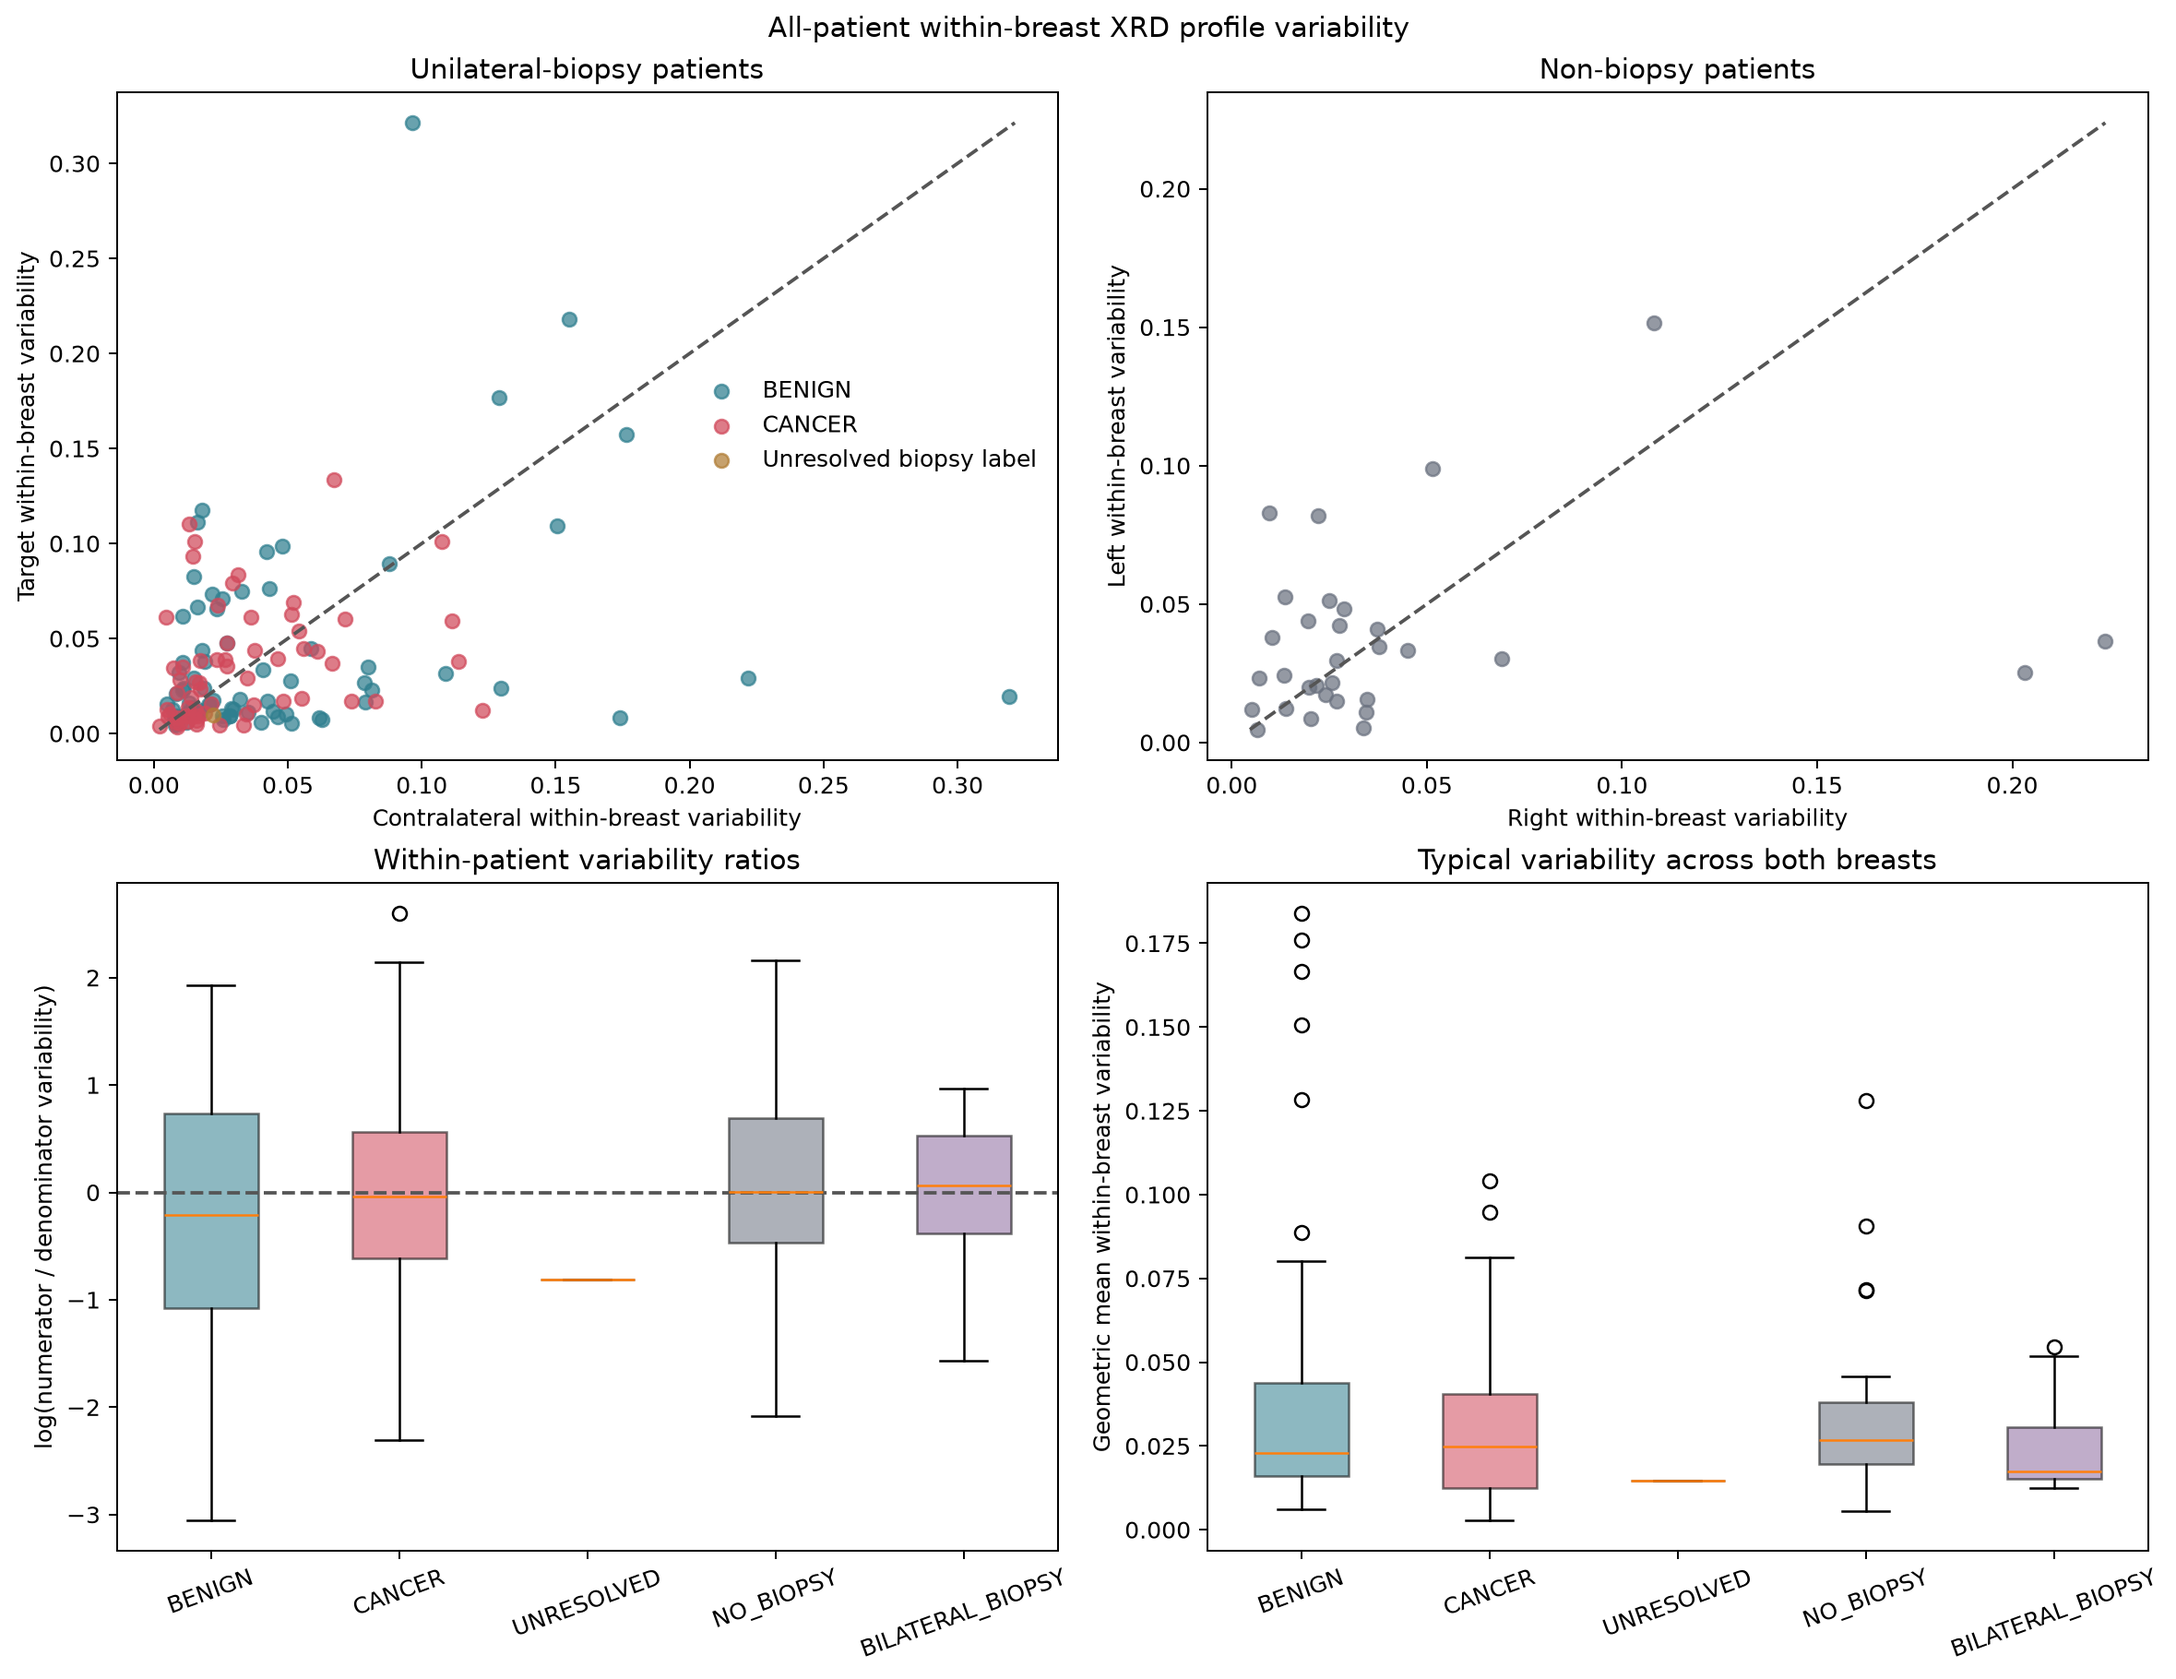
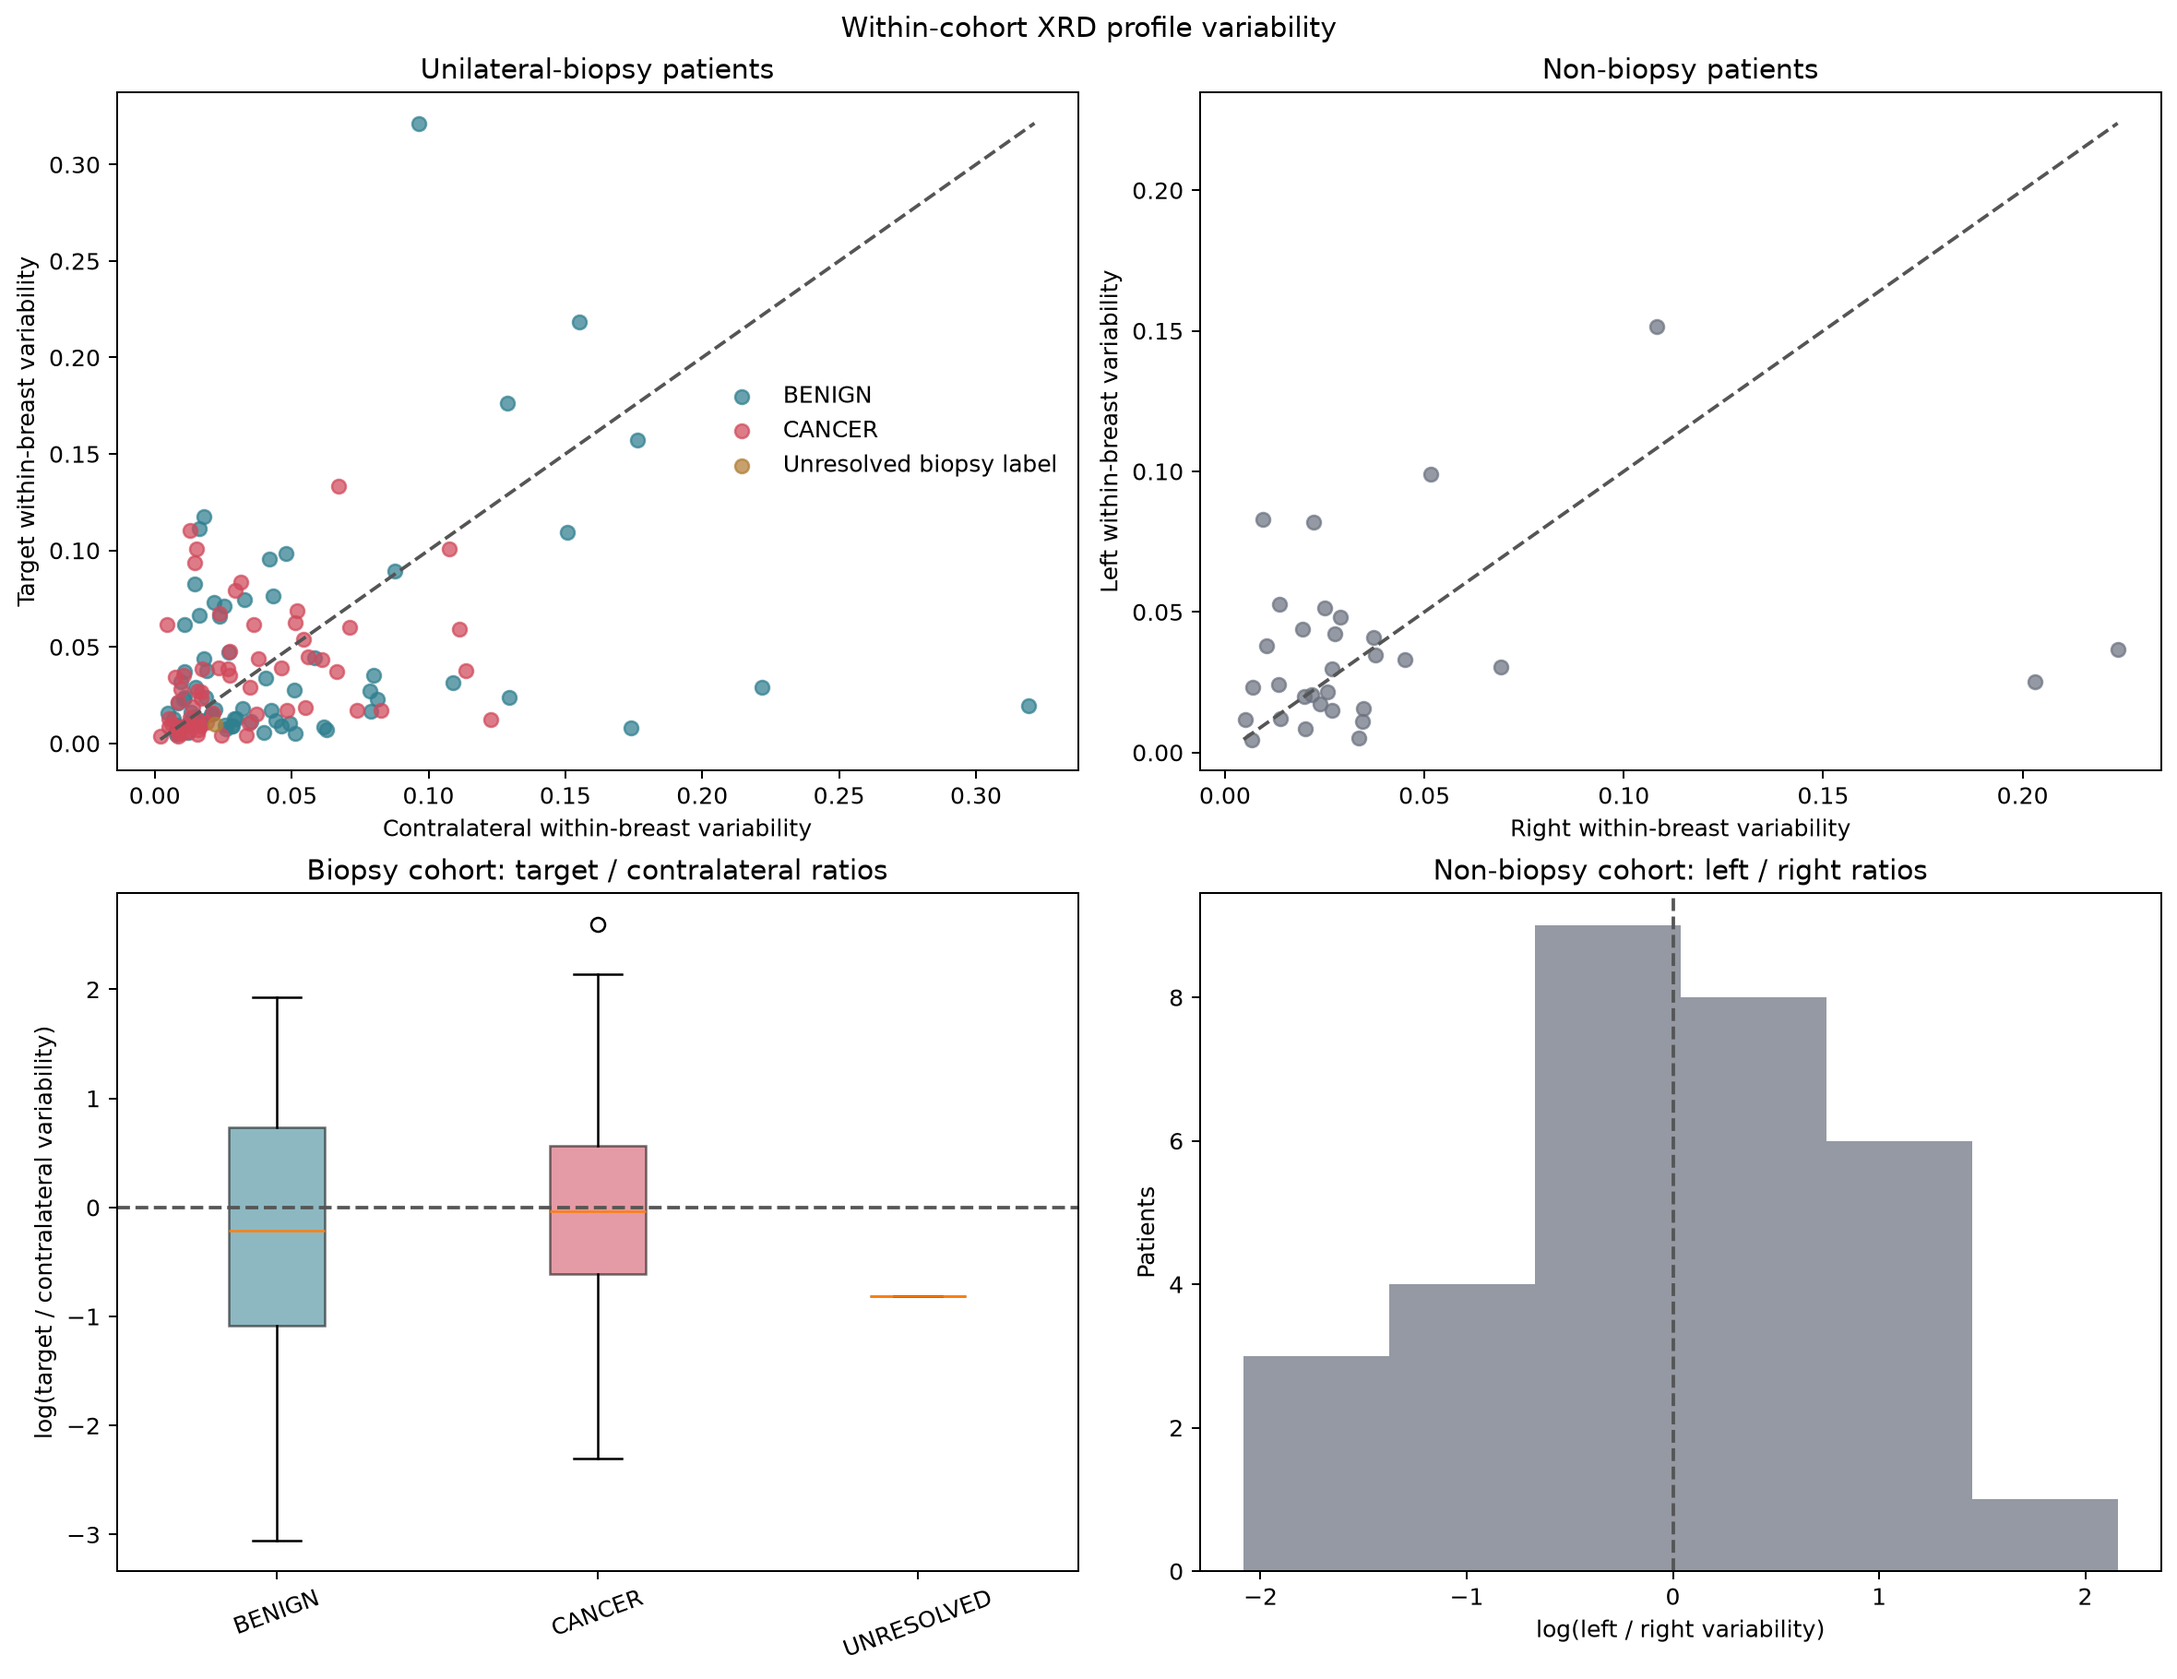
experiment: separate biopsy variability cohorts

diff --git a/experiments/profile_variability/all_patient_variability.py b/experiments/profile_variability/all_patient_variability.py
@@ -249,11 +249,19 @@ def save_all_patient_analysis(
     analysis: AllPatientVariabilityAnalysis,
     output_dir: str | Path,
 ) -> None:
-    """Write aggregate evidence and an untracked local patient-level table."""
+    """Write cohort-specific evidence and an untracked patient-level table."""
     output = Path(output_dir)
     output.mkdir(parents=True, exist_ok=True)
     analysis.cases.to_csv(output / "per_patient_variability_local.csv", index=False)
-    analysis.summary.to_csv(output / "cohort_summary.csv", index=False)
+    biopsy_summary = analysis.summary.loc[
+        analysis.summary["cohort"].str.startswith("BIOPSY_")
+        | analysis.summary["cohort"].eq("BILATERAL_BIOPSY")
+    ]
+    no_biopsy_summary = analysis.summary.loc[
+        analysis.summary["cohort"].eq("NO_BIOPSY")
+    ]
+    biopsy_summary.to_csv(output / "biopsy_cohort_summary.csv", index=False)
+    no_biopsy_summary.to_csv(output / "no_biopsy_cohort_summary.csv", index=False)
     (output / "summary.yaml").write_text(
         yaml.safe_dump(analysis.metadata, sort_keys=False),
         encoding="utf-8",
@@ -265,13 +273,13 @@ def all_patient_variability_figure(
     *,
     metric: str = PRIMARY_METRIC,
 ) -> plt.Figure:
-    """Plot biopsy target/contralateral and no-biopsy left/right comparisons."""
+    """Plot independent biopsy and no-biopsy within-cohort analyses."""
     figure, axes = plt.subplots(2, 2, figsize=(13.0, 10.0), constrained_layout=True)
     _scatter_biopsy_cases(axes[0, 0], cases, metric=metric)
     _scatter_no_biopsy_cases(axes[0, 1], cases, metric=metric)
-    _plot_log_ratio_by_cohort(axes[1, 0], cases, metric=metric)
-    _plot_overall_variability_by_cohort(axes[1, 1], cases, metric=metric)
-    figure.suptitle("All-patient within-breast XRD profile variability")
+    _plot_biopsy_log_ratio(axes[1, 0], cases, metric=metric)
+    _plot_no_biopsy_log_ratio(axes[1, 1], cases, metric=metric)
+    figure.suptitle("Within-cohort XRD profile variability")
     return figure
 
 
@@ -398,10 +406,14 @@ def _scatter_no_biopsy_cases(
     axis.set_ylabel("Left within-breast variability")
 
 
-def _plot_log_ratio_by_cohort(
+def _plot_biopsy_log_ratio(
     axis: plt.Axes, cases: pd.DataFrame, *, metric: str
 ) -> None:
-    available = [cohort for cohort in COHORT_ORDER if cohort in set(cases["cohort"])]
+    available = [
+        cohort
+        for cohort in ("BIOPSY_BENIGN", "BIOPSY_CANCER", "BIOPSY_UNRESOLVED")
+        if cohort in set(cases["cohort"])
+    ]
     values = [
         cases.loc[cases["cohort"].eq(cohort), f"log_ratio_{metric}"].to_numpy()
         for cohort in available
@@ -412,33 +424,26 @@ def _plot_log_ratio_by_cohort(
         patch.set_facecolor(COHORT_COLORS[cohort])
         patch.set_alpha(0.55)
     axis.axhline(0.0, color="#555555", linestyle="--")
-    axis.set_title("Within-patient variability ratios")
-    axis.set_ylabel("log(numerator / denominator variability)")
+    axis.set_title("Biopsy cohort: target / contralateral ratios")
+    axis.set_ylabel("log(target / contralateral variability)")
     axis.tick_params(axis="x", rotation=20)
 
 
-def _plot_overall_variability_by_cohort(
+def _plot_no_biopsy_log_ratio(
     axis: plt.Axes,
     cases: pd.DataFrame,
     *,
     metric: str,
 ) -> None:
-    available = [cohort for cohort in COHORT_ORDER if cohort in set(cases["cohort"])]
-    values = [
-        cases.loc[
-            cases["cohort"].eq(cohort),
-            f"geometric_mean_{metric}",
-        ].to_numpy()
-        for cohort in available
-    ]
-    labels = [cohort.replace("BIOPSY_", "") for cohort in available]
-    box = axis.boxplot(values, tick_labels=labels, patch_artist=True)
-    for patch, cohort in zip(box["boxes"], available, strict=True):
-        patch.set_facecolor(COHORT_COLORS[cohort])
-        patch.set_alpha(0.55)
-    axis.set_title("Typical variability across both breasts")
-    axis.set_ylabel("Geometric mean within-breast variability")
-    axis.tick_params(axis="x", rotation=20)
+    values = cases.loc[
+        cases["cohort"].eq("NO_BIOPSY"),
+        f"log_ratio_{metric}",
+    ].to_numpy()
+    axis.hist(values, bins="auto", color=COHORT_COLORS["NO_BIOPSY"], alpha=0.72)
+    axis.axvline(0.0, color="#555555", linestyle="--")
+    axis.set_title("Non-biopsy cohort: left / right ratios")
+    axis.set_xlabel("log(left / right variability)")
+    axis.set_ylabel("Patients")
 
 
 def _identity_line(

diff --git a/tests/test_all_patient_variability.py b/tests/test_all_patient_variability.py
@@ -8,6 +8,7 @@ import pandas as pd
 from experiments.profile_variability.all_patient_variability import (
     build_all_patient_variability_table,
     run_all_patient_variability_analysis,
+    save_all_patient_analysis,
 )
 
 
@@ -162,3 +163,14 @@ def test_all_patient_analysis_records_inclusion_policy():
         "NO_BIOPSY",
         "BILATERAL_BIOPSY",
     }
+
+
+def test_all_patient_analysis_writes_separate_cohort_summaries(tmp_path):
+    analysis = run_all_patient_variability_analysis(
+        _all_patient_frame(),
+        bootstrap_iterations=200,
+    )
+    save_all_patient_analysis(analysis, tmp_path)
+    assert (tmp_path / "biopsy_cohort_summary.csv").is_file()
+    assert (tmp_path / "no_biopsy_cohort_summary.csv").is_file()
+    assert not (tmp_path / "cohort_summary.csv").exists()

diff --git a/experiments/profile_variability/all_patient_variability_notebook.py b/experiments/profile_variability/all_patient_variability_notebook.py
@@ -28,7 +28,7 @@ def _(mo):
     mo.md("""
     # All-patient XRD profile variability
 
-    Research-only analysis of normalized XRD profiles. Historical AgBH/K-beta exclusion and biopsy-patient filtering are disabled during preprocessing. The analysis compares target/contralateral only for unilateral-biopsy patients and left/right for no-biopsy patients.
+    Research-only analysis of normalized XRD profiles. Historical AgBH/K-beta exclusion and biopsy-patient filtering are disabled during preprocessing. Biopsy and no-biopsy cohorts are analysed separately: target/contralateral for unilateral-biopsy patients and left/right for no-biopsy patients.
     """)
     return
 

diff --git a/experiments/profile_variability/RESULTS_ALL_PATIENTS.md b/experiments/profile_variability/RESULTS_ALL_PATIENTS.md
@@ -23,15 +23,17 @@ validate an Aramina classifier.
 - `177` have both breasts and at least three unique positions per breast; only
   these patients support the paired comparison.
 
-## Cohorts
+## Cohort definitions
 
-| Cohort | Patients | Comparison |
-|---|---:|---|
-| Unilateral biopsy, BENIGN | 72 | target / contralateral |
-| Unilateral biopsy, CANCER | 62 | target / contralateral |
-| Biopsy label unresolved | 1 | target / contralateral; not relabelled |
-| No biopsy | 31 | left / right only |
-| Bilateral biopsy | 11 | left / right; separate descriptive cohort |
+Two independent analyses are reported. They are not compared to each other.
+
+- **Biopsy cohort:** unilateral-biopsy patients, assessed as target /
+  contralateral. It contains 72 BENIGN and 62 CANCER target breasts.
+- **No-biopsy cohort:** 31 patients with no biopsy on either breast, assessed as
+  left / right only.
+
+Eleven bilateral-biopsy patients and one patient with an unresolved biopsy
+label remain in the audit output but do not enter either primary cohort result.
 
 The no-biopsy patients have no clinical target breast. `Left/Right` is a fixed
 orientation solely for calculating a signed paired ratio; interchanging sides
@@ -44,21 +46,25 @@ already normalized profiles across the full common q-grid
 `2.105-22.895 nm^-1`. The patient-level comparison is the log ratio of the
 two breast variabilities. A ratio of one means equal variability.
 
-## Results
+## Biopsy cohort result
 
-| Cohort | Median paired ratio | Geometric mean ratio | Bootstrap 95% CI |
+| Target-breast class | Patients | Median paired ratio | Geometric mean ratio | Bootstrap 95% CI |
 |---|---:|---:|---:|
-| BENIGN target / contralateral | 0.811 | 0.808 | 0.622-1.053 |
-| CANCER target / contralateral | 0.965 | 1.015 | 0.788-1.303 |
-| No biopsy left / right | 1.002 | 1.033 | 0.725-1.448 |
-| Bilateral biopsy left / right | 1.067 | 0.944 | 0.605-1.424 |
+| BENIGN | 72 | 0.811 | 0.808 | 0.622-1.053 |
+| CANCER | 62 | 0.965 | 1.015 | 0.788-1.303 |
 
-The no-biopsy left/right result is centred near one and has a wide confidence
+The CANCER target/contralateral ratio is near one on average. The BENIGN
+estimate is lower, but its interval crosses one.
+
+## No-biopsy cohort result
+
+| Patients | Median left/right ratio | Geometric mean ratio | Bootstrap 95% CI |
+|---:|---:|---:|---:|
+| 31 | 1.002 | 1.033 | 0.725-1.448 |
+
+The no-biopsy left/right result is centred near one with a wide confidence
 interval. It shows no apparent systematic left/right variability difference in
-this small eligible non-biopsy cohort. The biopsy cohort remains compatible
-with the earlier conclusion: CANCER target/contralateral variability is near
-equal on average, while the BENIGN estimate is lower but its interval crosses
-one.
+this small eligible cohort. It is not a comparator for the biopsy result.
 
 ## Limitation
 

diff --git a/experiments/profile_variability/README.md b/experiments/profile_variability/README.md
@@ -130,7 +130,8 @@ The resulting patients are split after preprocessing:
   BENIGN nor CANCER; retained without relabelling.
 
 For `NO_BIOPSY`, left is merely the numerator of a fixed left/right ratio. It
-does not mean target and has no cancer label.
+does not mean target and has no cancer label. Biopsy and no-biopsy cohorts are
+reported as separate descriptive analyses; they are not compared to each other.
 
 Run the full preprocessing once:
 
